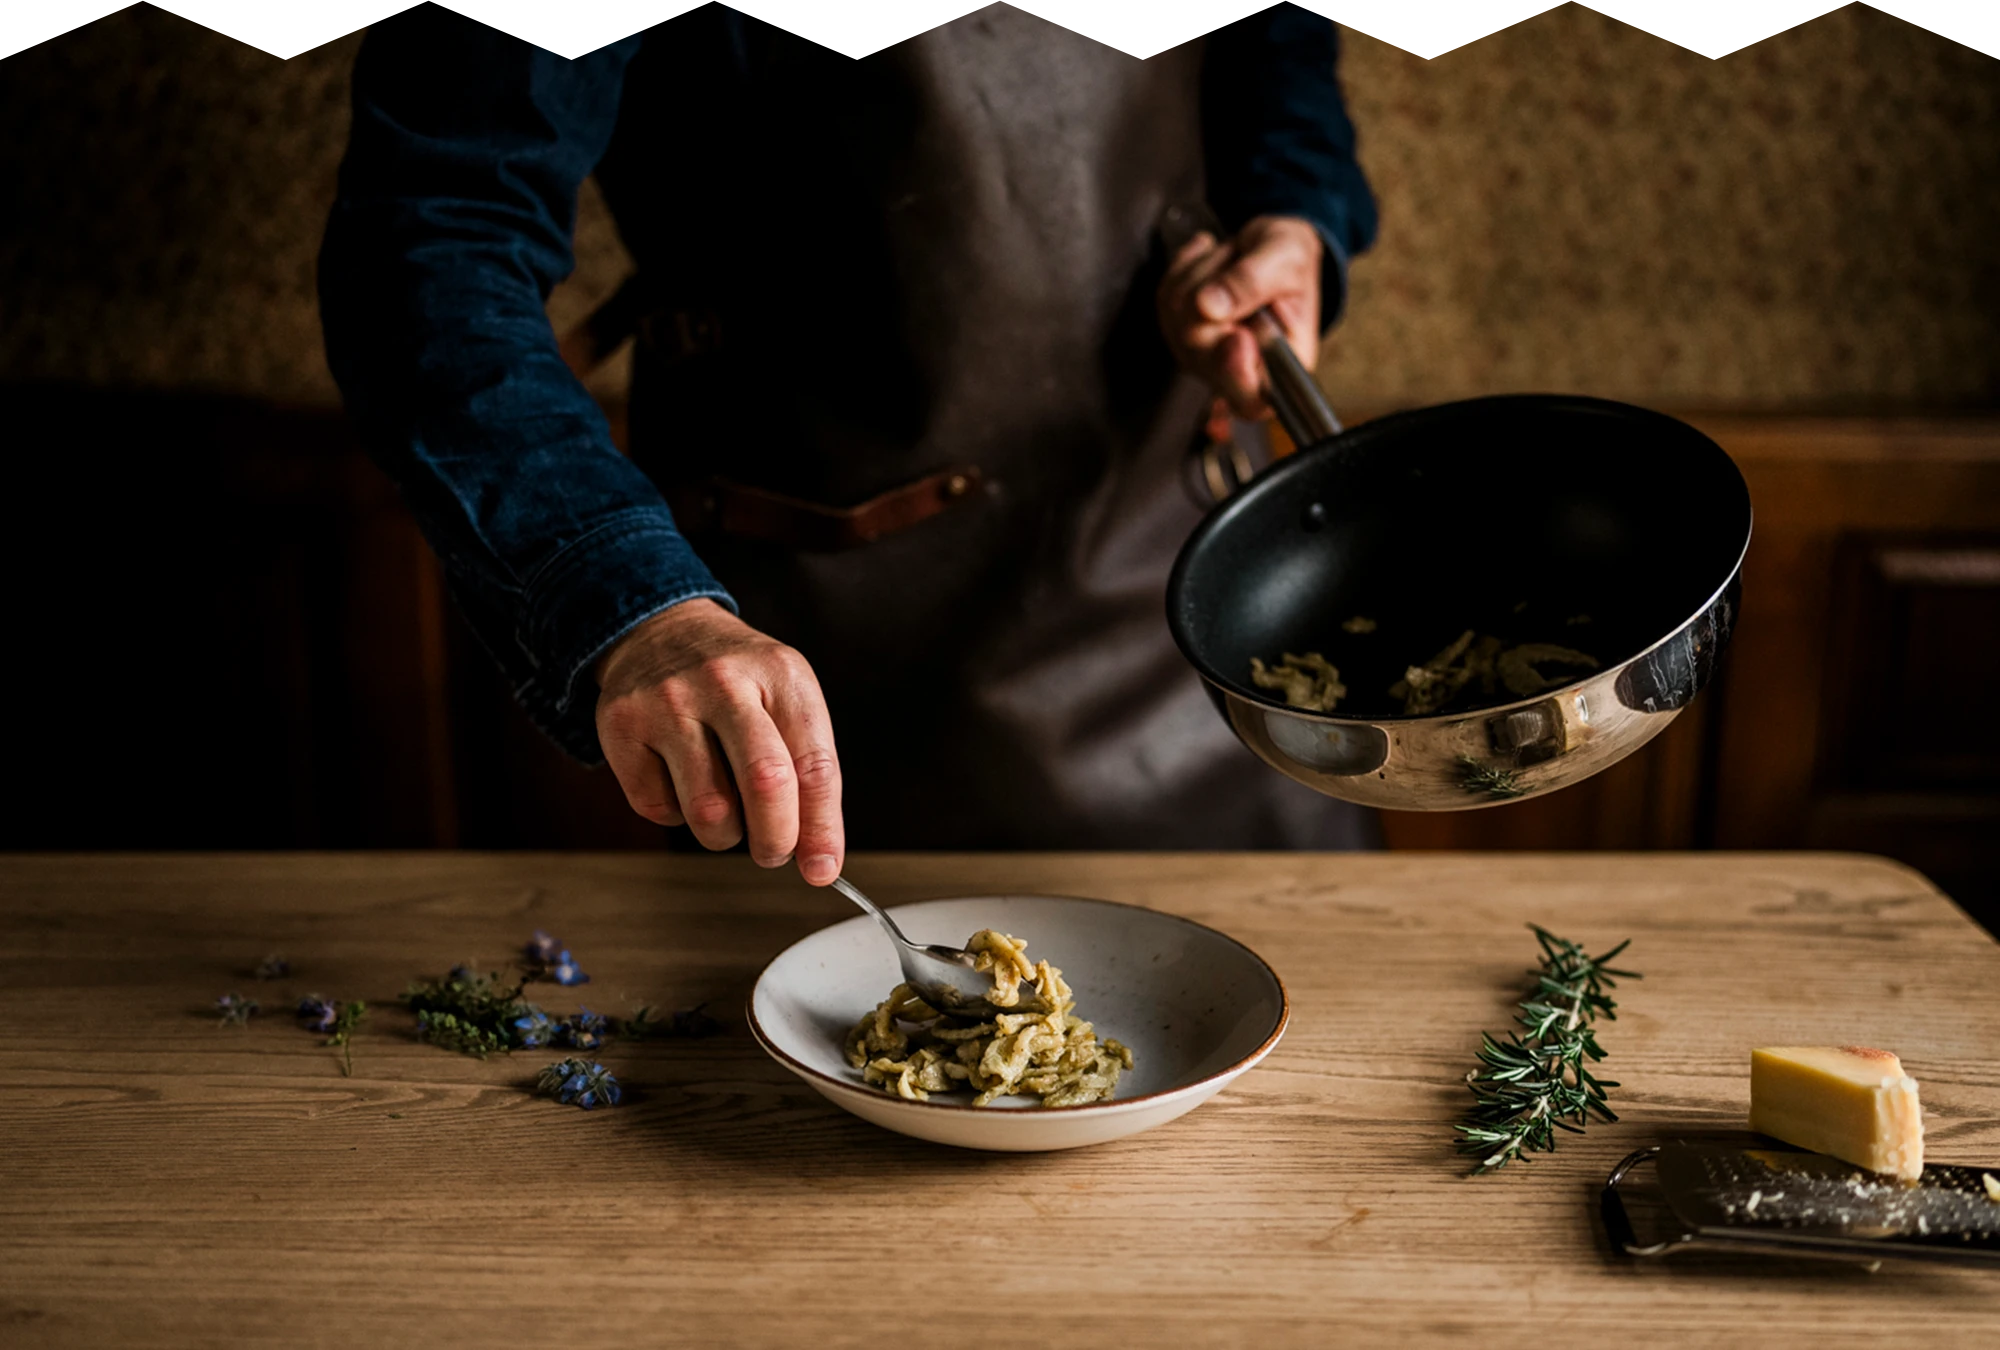
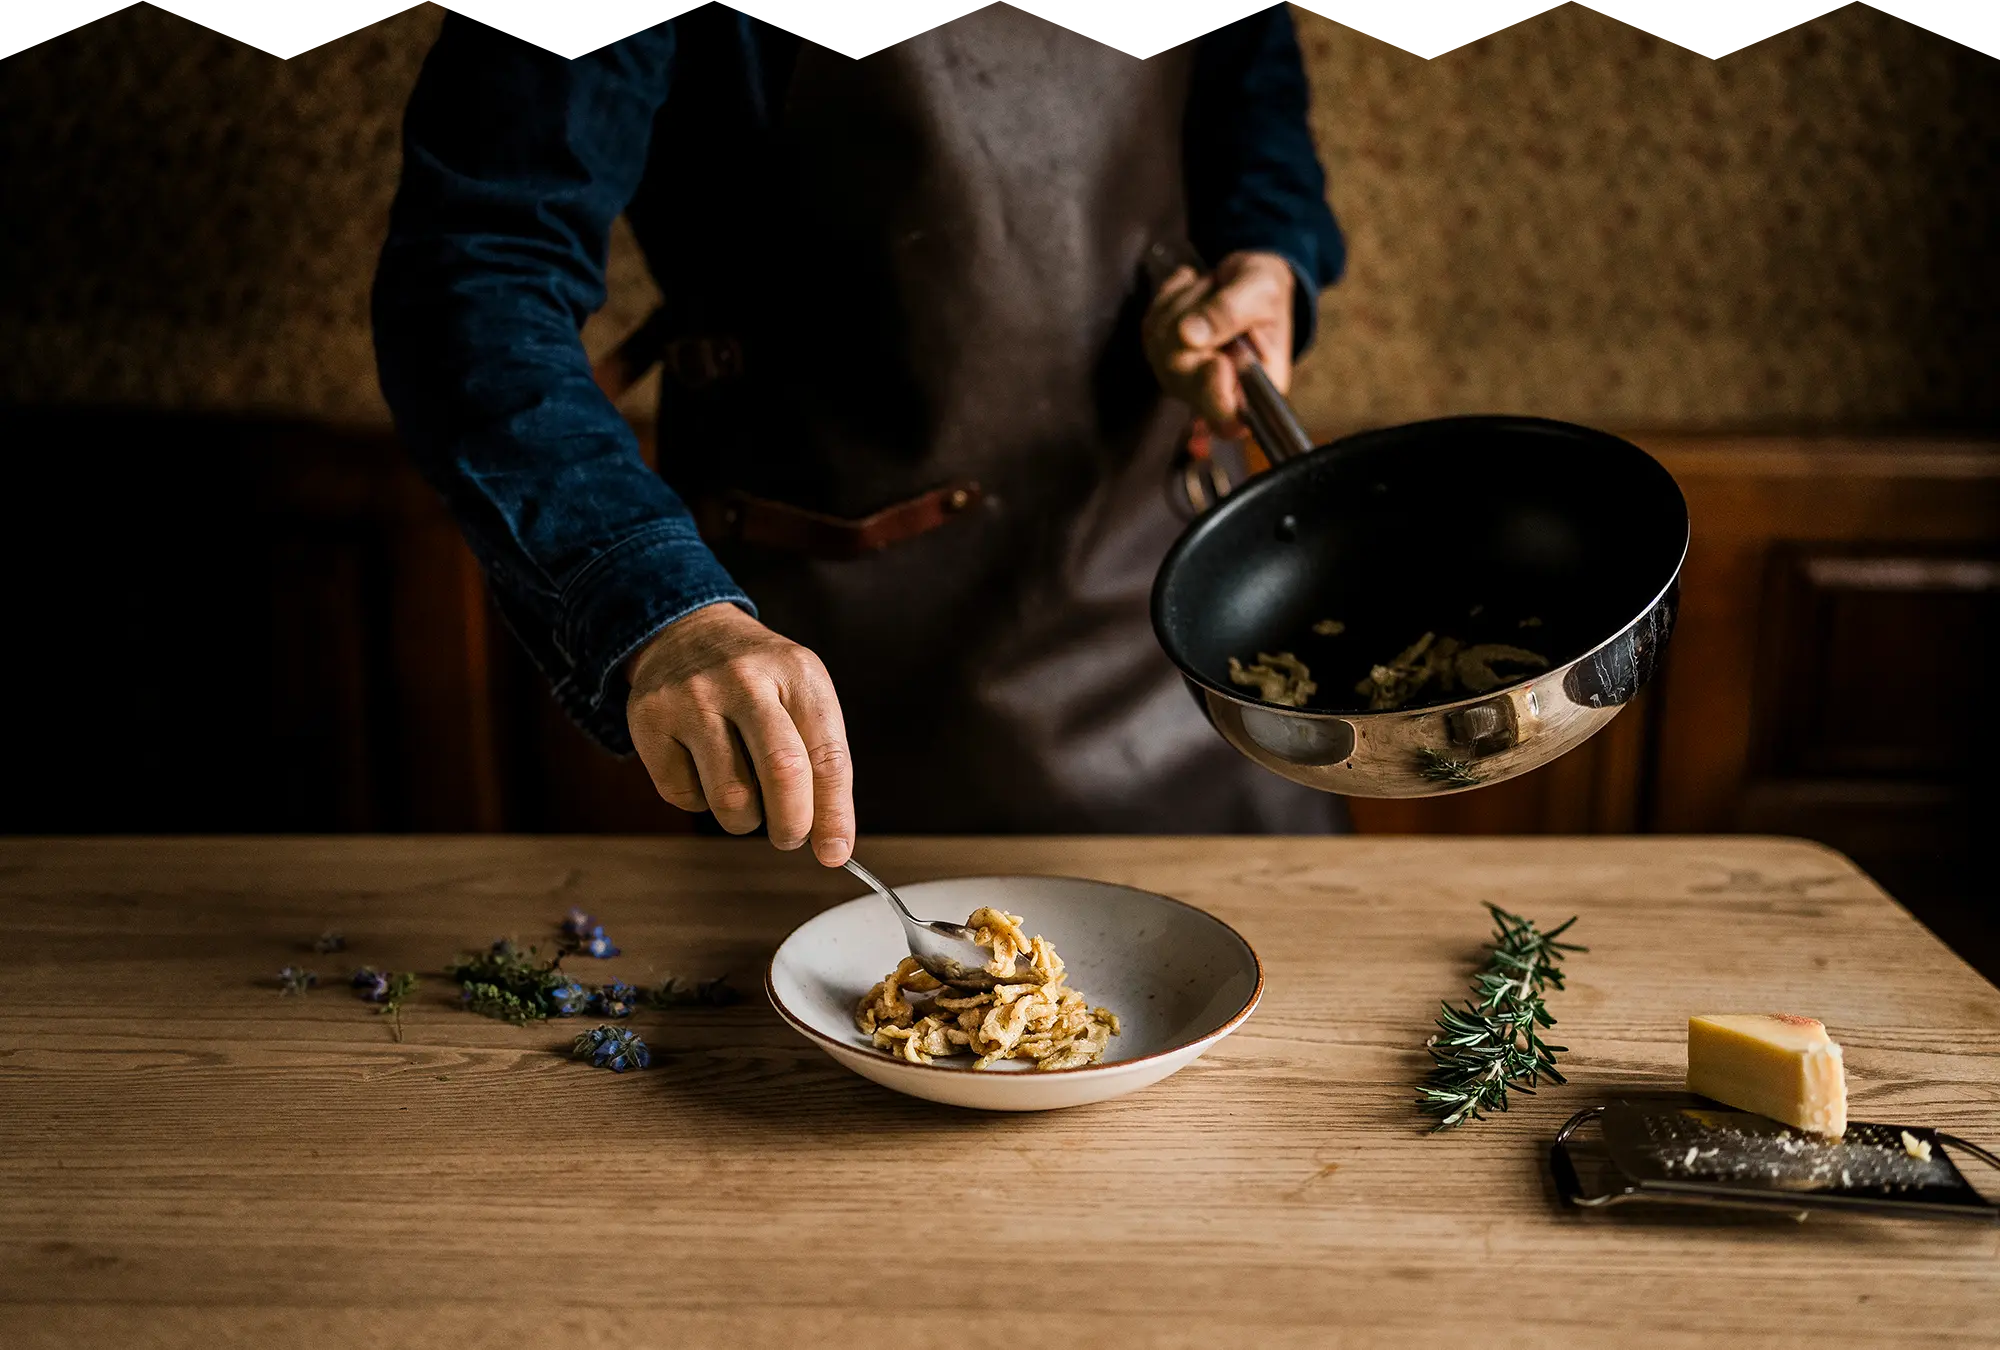
bilder

diff --git a/pizokel.php b/pizokel.php
@@ -18,7 +18,7 @@
             <h1 class="big">pizokel</h1>
         </div>
         <figure class="fadein">
-            <img src="img/naluns-handgemachte-pizokel-vizokel-spaetzli-home.webp" alt="naluns-handgemachte-pizokel-vizokel-spaetzli-home">
+            <img src="img/naluns-pizokel-engadiner-teigspezialitaet-bio-kraeutern.webp" alt="naluns-pizokel-engadiner-teigspezialitaet-bio-kraeutern">
             <figcaption>
                 Pizokel: Engadiner Teigspezialität mit Bio-Kräutern neu interpretiert.
             </figcaption>  
@@ -42,10 +42,10 @@
                     <div class="accordion-content">
                         <div class="accordion-flex">
                             <div>
-                                <img src="img/naluns-handgemachte-pizokel-traditionsprodukt-engadin-home.webp" alt="naluns-handgemachte-pizokel-traditionsprodukt-engadin-home">
+                                <img src="img/naluns-pizokel-nature-01.webp" alt="naluns-pizokel-nature-01">
                             </div>
                             <div>
-                                <img src="img/naluns-handgemachte-pizokel-traditionsprodukt-engadin-home.webp" alt="naluns-handgemachte-pizokel-traditionsprodukt-engadin-home">
+                            <img src="img/naluns-pizokel-nature-02.webp" alt="naluns-pizokel-nature-02">
                             </div>
                             <div>
                                 <p>
@@ -63,10 +63,10 @@
                     <div class="accordion-content">
                         <div class="accordion-flex">
                             <div>
-                                <img src="img/naluns-handgemachte-pizokel-traditionsprodukt-engadin-home.webp" alt="naluns-handgemachte-pizokel-traditionsprodukt-engadin-home">
+                                <img src="img/naluns-pizokel-rosmarin-01.webp" alt="naluns-pizokel-rosmarin-01">
                             </div>
                             <div>
-                                <img src="img/naluns-handgemachte-pizokel-traditionsprodukt-engadin-home.webp" alt="naluns-handgemachte-pizokel-traditionsprodukt-engadin-home">
+                                <img src="img/naluns-pizokel-rosmarin-02.webp" alt="naluns-pizokel-rosmarin-02">
                             </div>
                             <div>
                                 <p>

diff --git a/impressum.php b/impressum.php
@@ -19,7 +19,7 @@
     <link rel="stylesheet" href="main.css" />
 </head>
 
-<body>
+<body class="green">
     <section class="maincontent subpage datenschutz">
         <h1>Impressum</h1>
         <h3 class="gold">Verantwortlich für den Inhalt:</h3>

diff --git a/datenschutz.php b/datenschutz.php
@@ -19,7 +19,7 @@
     <link rel="stylesheet" href="main.css" />
 </head>
 
-<body>
+<body class="green">
     <section class="maincontent subpage datenschutz">
         <h1>Datenschutzerklärung</h1>
         <p>

diff --git a/footer.php b/footer.php
@@ -1,4 +1,4 @@
-<footer>
+<footer class="fadein">
     <div class="footer">
         <div class="footerlogo">
             <a href="index">
